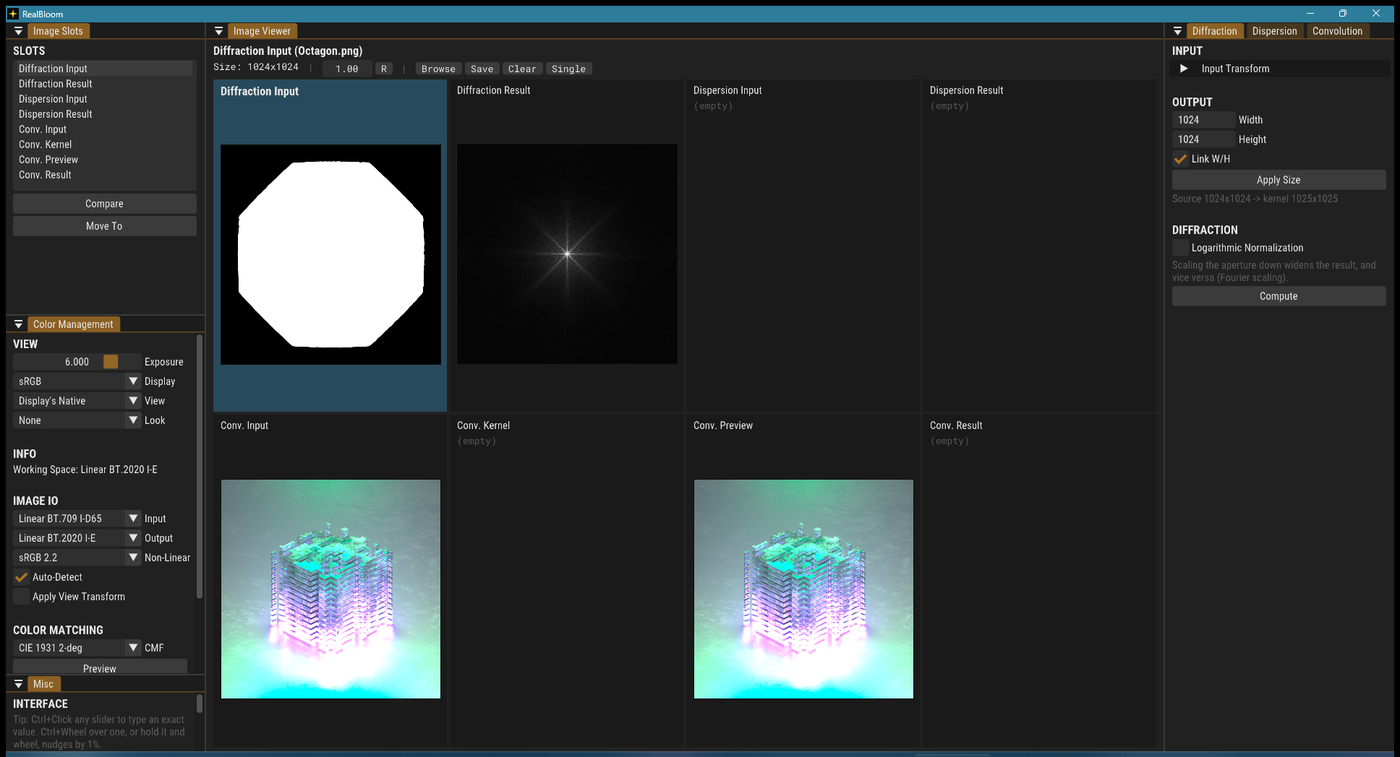
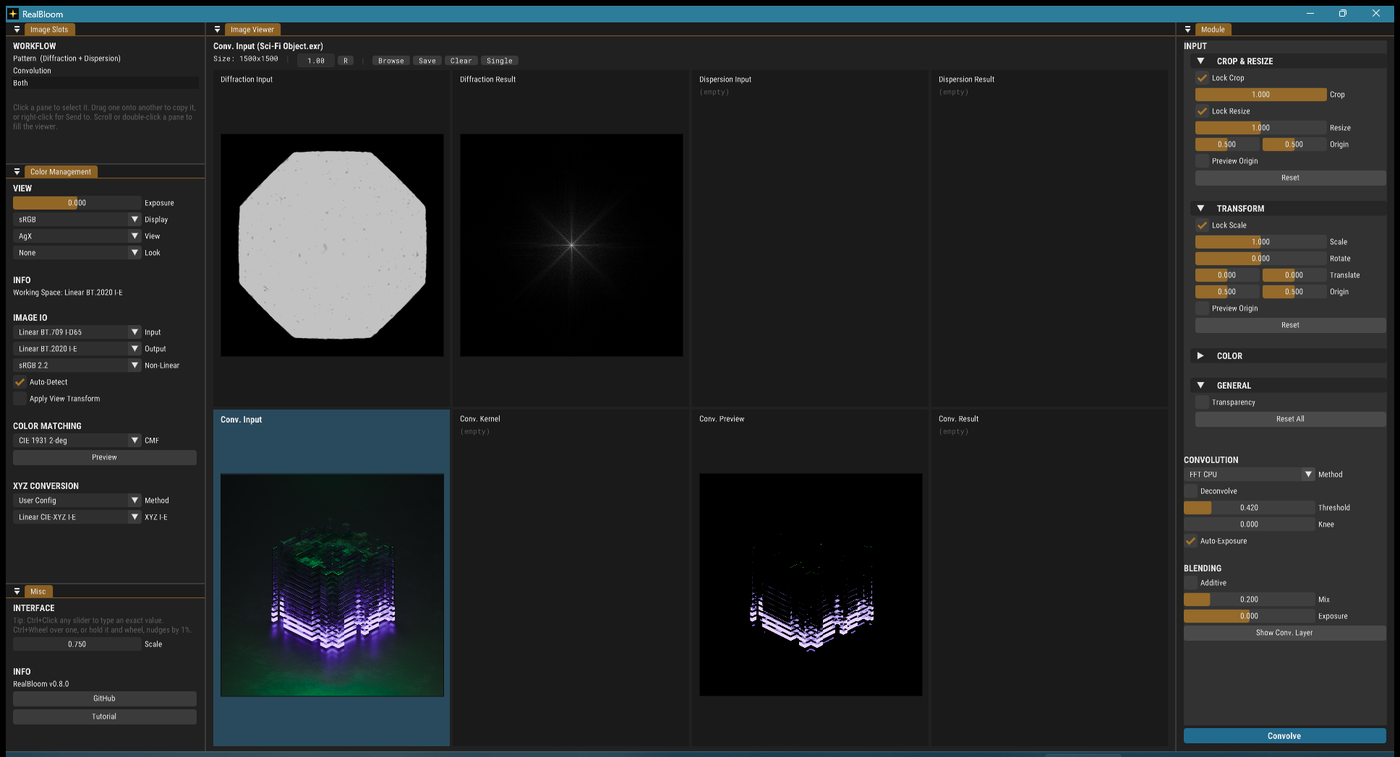
Blender-style gauge sliders, and refresh the README
Sliders fill from the left in proportion to their value instead of
showing a grab handle. The fill is drawn underneath and ImGui keeps
the behaviour, with its own frame and grab made transparent, so
dragging, Ctrl+Click to type, the wheel adjustment and Backspace all
keep working rather than being reimplemented on top of SliderBehavior.

Three details: the fill is dropped while a value is being typed, since
it would otherwise sit behind the text; hover highlighting is done
with a geometric test because ImGui's own hover colours are now
transparent; and narrow fills are clamped and clipped so a near-zero
value renders as a clean sliver.

The two-axis sliders use the same offsets ImGui uses to split a
multi-component widget, so they line up with the single ones.

README: rewritten to match what the interface actually is now, with
fresh screenshots. The old ones still showed three module tabs and the
slot list, both long gone.

diff --git a/RealBloom/src/Main.cpp b/RealBloom/src/Main.cpp
@@ -1971,7 +1971,7 @@ bool layoutImageTransformParams(const std::string& imageName, const std::string&
             }
             else
             {
-                if (ImGui::SliderFloat2("Crop##CropResize", &params.cropResize.crop[0], 0.01f, 1.0f))
+                if (imGuiSliderFloat2W("Crop##CropResize", &params.cropResize.crop[0], 0.01f, 1.0f))
                 {
                     params.cropResize.crop[0] = std::clamp(params.cropResize.crop[0], 0.01f, 1.0f);
                     params.cropResize.crop[1] = std::clamp(params.cropResize.crop[1], 0.01f, 1.0f);
@@ -2000,7 +2000,7 @@ bool layoutImageTransformParams(const std::string& imageName, const std::string&
             }
             else
             {
-                if (ImGui::SliderFloat2("Resize##CropResize", &params.cropResize.resize[0], 0.01f, 2.0f))
+                if (imGuiSliderFloat2W("Resize##CropResize", &params.cropResize.resize[0], 0.01f, 2.0f))
                 {
                     params.cropResize.resize[0] = std::max(params.cropResize.resize[0], 0.01f);
                     params.cropResize.resize[1] = std::max(params.cropResize.resize[1], 0.01f);
@@ -2009,7 +2009,7 @@ bool layoutImageTransformParams(const std::string& imageName, const std::string&
             }
 
             // Origin
-            if (ImGui::SliderFloat2("Origin##CropResize", params.cropResize.origin.data(), 0.0f, 1.0f))
+            if (imGuiSliderFloat2W("Origin##CropResize", params.cropResize.origin.data(), 0.0f, 1.0f))
             {
                 params.cropResize.origin[0] = std::clamp(params.cropResize.origin[0], 0.0f, 1.0f);
                 params.cropResize.origin[1] = std::clamp(params.cropResize.origin[1], 0.0f, 1.0f);
@@ -2055,7 +2055,7 @@ bool layoutImageTransformParams(const std::string& imageName, const std::string&
             }
             else
             {
-                if (ImGui::SliderFloat2("Scale##Transform", &params.transform.scale[0], 0.01f, 2.0f))
+                if (imGuiSliderFloat2W("Scale##Transform", &params.transform.scale[0], 0.01f, 2.0f))
                 {
                     changed = true;
                 }
@@ -2066,11 +2066,11 @@ bool layoutImageTransformParams(const std::string& imageName, const std::string&
                 changed = true;
 
             // Translate
-            if (ImGui::SliderFloat2("Translate##Transform", params.transform.translate.data(), -1.0f, 1.0f))
+            if (imGuiSliderFloat2W("Translate##Transform", params.transform.translate.data(), -1.0f, 1.0f))
                 changed = true;
 
             // Origin
-            if (ImGui::SliderFloat2("Origin##Transform", params.transform.origin.data(), 0.0f, 1.0f))
+            if (imGuiSliderFloat2W("Origin##Transform", params.transform.origin.data(), 0.0f, 1.0f))
             {
                 params.transform.origin[0] = std::clamp(params.transform.origin[0], 0.0f, 1.0f);
                 params.transform.origin[1] = std::clamp(params.transform.origin[1], 0.0f, 1.0f);
@@ -2275,9 +2275,101 @@ static bool imGuiDefaultReset(float* v, float vDefault)
 }
 
 // ImGui::SliderFloat + mouse wheel and default-reset support
+// Blender-style gauge: the track fills from the left in proportion to the value,
+// rather than showing a grab handle.
+//
+// The fill is drawn underneath and ImGui is left to do the behaviour, with its
+// own frame and grab made transparent. That keeps drag, Ctrl+Click to type, and
+// everything else intact instead of reimplementing SliderBehavior.
+static void imGuiGaugeBegin(float fraction, const char* label)
+{
+    ImDrawList* drawList = ImGui::GetWindowDrawList();
+    const ImVec2 p0 = ImGui::GetCursorScreenPos();
+    const float w = ImGui::CalcItemWidth();
+    const float h = ImGui::GetFrameHeight();
+    const float rounding = ImGui::GetStyle().FrameRounding;
+    const ImVec2 p1(p0.x + w, p0.y + h);
+
+    // While typing a value the fill would sit behind the text, so drop it
+    const bool typing = ImGui::TempInputIsActive(ImGui::GetID(label));
+    const bool hovered = ImGui::IsMouseHoveringRect(p0, p1);
+
+    drawList->AddRectFilled(p0, p1,
+        ImGui::GetColorU32(hovered ? ImGuiCol_FrameBgHovered : ImGuiCol_FrameBg), rounding);
+
+    if (!typing && (fraction > 0.0f))
+    {
+        const float fillW = ImMax(w * ImClamp(fraction, 0.0f, 1.0f), rounding * 2.0f);
+        drawList->PushClipRect(p0, p1, true);
+        drawList->AddRectFilled(p0, ImVec2(p0.x + fillW, p1.y),
+            ImGui::GetColorU32(ImGuiCol_SliderGrab), rounding);
+        drawList->PopClipRect();
+    }
+
+    ImGui::PushStyleColor(ImGuiCol_FrameBg, ImVec4(0, 0, 0, 0));
+    ImGui::PushStyleColor(ImGuiCol_FrameBgHovered, ImVec4(0, 0, 0, 0));
+    ImGui::PushStyleColor(ImGuiCol_FrameBgActive, ImVec4(0, 0, 0, 0));
+    ImGui::PushStyleColor(ImGuiCol_SliderGrab, ImVec4(0, 0, 0, 0));
+    ImGui::PushStyleColor(ImGuiCol_SliderGrabActive, ImVec4(0, 0, 0, 0));
+}
+
+static void imGuiGaugeEnd()
+{
+    ImGui::PopStyleColor(5);
+}
+
+// Two-axis variant. ImGui splits the item width into equal components, so the
+// fills are drawn at the same offsets to keep them visually identical.
+bool imGuiSliderFloat2W(const char* label, float* v, float vMin, float vMax)
+{
+    ImDrawList* drawList = ImGui::GetWindowDrawList();
+    const ImGuiStyle& style = ImGui::GetStyle();
+    const ImVec2 p0 = ImGui::GetCursorScreenPos();
+    const float spacing = style.ItemInnerSpacing.x;
+    const float wEach = (ImGui::CalcItemWidth() - spacing) / 2.0f;
+    const float h = ImGui::GetFrameHeight();
+    const float rounding = style.FrameRounding;
+
+    for (int i = 0; i < 2; i++)
+    {
+        const ImVec2 a(p0.x + (float)i * (wEach + spacing), p0.y);
+        const ImVec2 b(a.x + wEach, a.y + h);
+        const bool hovered = ImGui::IsMouseHoveringRect(a, b);
+
+        drawList->AddRectFilled(a, b,
+            ImGui::GetColorU32(hovered ? ImGuiCol_FrameBgHovered : ImGuiCol_FrameBg), rounding);
+
+        const float frac = (vMax > vMin)
+            ? ImClamp((v[i] - vMin) / (vMax - vMin), 0.0f, 1.0f) : 0.0f;
+        if (frac > 0.0f)
+        {
+            const float fillW = ImMax(wEach * frac, rounding * 2.0f);
+            drawList->PushClipRect(a, b, true);
+            drawList->AddRectFilled(a, ImVec2(a.x + fillW, b.y),
+                ImGui::GetColorU32(ImGuiCol_SliderGrab), rounding);
+            drawList->PopClipRect();
+        }
+    }
+
+    ImGui::PushStyleColor(ImGuiCol_FrameBg, ImVec4(0, 0, 0, 0));
+    ImGui::PushStyleColor(ImGuiCol_FrameBgHovered, ImVec4(0, 0, 0, 0));
+    ImGui::PushStyleColor(ImGuiCol_FrameBgActive, ImVec4(0, 0, 0, 0));
+    ImGui::PushStyleColor(ImGuiCol_SliderGrab, ImVec4(0, 0, 0, 0));
+    ImGui::PushStyleColor(ImGuiCol_SliderGrabActive, ImVec4(0, 0, 0, 0));
+    const bool changed = ImGui::SliderFloat2(label, v, vMin, vMax);
+    ImGui::PopStyleColor(5);
+
+    return changed;
+}
+
 bool imGuiSliderFloatW(const char* label, float* v, float vMin, float vMax, float vDefault)
 {
+    const float frac = (vMax > vMin) ? ((*v - vMin) / (vMax - vMin)) : 0.0f;
+
+    imGuiGaugeBegin(frac, label);
     bool changed = ImGui::SliderFloat(label, v, vMin, vMax);
+    imGuiGaugeEnd();
+
     if (imGuiWheelAdjust(v, vMin, vMax))
         changed = true;
     if (imGuiDefaultReset(v, vDefault))
@@ -2288,7 +2380,13 @@ bool imGuiSliderFloatW(const char* label, float* v, float vMin, float vMax, floa
 bool imGuiSliderUInt(const std::string& label, uint32_t* v, uint32_t min, uint32_t max, uint32_t vDefault)
 {
     int vInt = u32ToI32(*v);
+
+    const float frac = (max > min)
+        ? ((float)(*v - min) / (float)(max - min)) : 0.0f;
+
+    imGuiGaugeBegin(frac, label.c_str());
     bool changed = ImGui::SliderInt(label.c_str(), &vInt, u32ToI32(min), u32ToI32(max));
+    imGuiGaugeEnd();
 
     // Mouse wheel: 1% of the range per notch, but never less than 1
     if (wheelEditAllowed())

diff --git a/RealBloom/src/Main.h b/RealBloom/src/Main.h
@@ -95,6 +95,7 @@ void imGuiBold(const std::string& s);
 void imGuiText(const std::string& s, bool isError, bool newLine);
 bool imGuiWheelAdjust(float* v, float vMin, float vMax);
 bool imGuiSliderFloatW(const char* label, float* v, float vMin, float vMax, float vDefault = FLT_MAX);
+bool imGuiSliderFloat2W(const char* label, float* v, float vMin, float vMax);
 bool imGuiSliderUInt(const std::string& label, uint32_t* v, uint32_t min, uint32_t max, uint32_t vDefault = UINT32_MAX);
 bool imGuiInputUInt(const std::string& label, uint32_t* v);
 bool imGuiCombo(const std::string& label, const std::vector<std::string>& items, int* selectedIndex, bool fullWidth);

diff --git a/README.md b/README.md
@@ -42,14 +42,14 @@
 <!-- FORK CHANGES -->
 # Fork Changes
 
-This is a fork of [bean-mhm/realbloom](https://github.com/bean-mhm/realbloom) with two
-independent sets of changes: making v0.8.0 build against current dependencies, and a
-rework of the image viewer. Everything else is upstream's work.
+This is a fork of [bean-mhm/realbloom](https://github.com/bean-mhm/realbloom) with
+two independent sets of changes: making v0.8.0 build against current dependencies,
+and a rework of the interface. Everything else is upstream's work.
 
 ## Building against current OpenColorIO / OpenImageIO
 
-v0.8.0 targets OCIO 2.1 and OIIO 2.4. Current vcpkg ships OCIO 2.5 and OIIO 3.1, which
-breaks the build in three places:
+v0.8.0 targets OCIO 2.1 and OIIO 2.4. Current vcpkg ships OCIO 2.5 and OIIO 3.1,
+which breaks the build in three places:
 
 | Problem | Fix |
 |--|--|
@@ -57,69 +57,110 @@ breaks the build in three places:
 | OCIO 2.5 added a `TextureDimensions` out-param to `GpuShaderDesc::getTexture()` | Pass it through; the existing height-based `GL_TEXTURE_1D`/`2D` choice still holds, so behaviour is unchanged |
 | OIIO 3.x moved `TypeDesc::TypeString` to namespace-level `OIIO::TypeString`, and its bundled fmt requires `/utf-8` | Updated the call site and added the compiler flag |
 
-These are compatibility shims, not behaviour changes. Verified by rendering a hexagon
-aperture diffraction pattern through the CLI and comparing against the official v0.8.0
-release binary: **0 of 1,050,625 pixels differ**.
+These are compatibility shims, not behaviour changes. Verified by rendering a
+hexagon aperture diffraction pattern through the CLI and comparing against the
+official v0.8.0 release binary: **0 of 1,050,625 pixels differ**.
 
-They are isolated in a single commit on the [`ocio-oiio-compat`](../../tree/ocio-oiio-compat)
-branch, which applies cleanly to upstream `main` on its own.
+They are isolated in a single commit on the
+[`ocio-oiio-compat`](../../tree/ocio-oiio-compat) branch, which applies cleanly to
+upstream `main` on its own.
 
-## Image viewer
+## Interface
 
-![Split image viewer](images/fork/split-viewer.png)
+![The image viewer showing every slot at once](images/fork/split-viewer.png)
 
-The viewer showed one image slot at a time, which turned out to be the root of several
-separate annoyances: *Compare* existed only to flip around it, drag-and-drop had to
-target "the selected slot", and the module tabs drifted out of sync with the slot being
-worked on. Above, an aperture and its diffraction pattern are visible side by side, with
-no slot switching.
+The interface was organised around the program's three modules rather than around
+what you do with them. You chose a tab whose answer was already implied by the
+image you had selected, and scrolled past a transform belonging to a different
+slot to reach the button you wanted.
 
-- **Split view** of all 8 slots in an adaptive grid. Double-click a pane to maximise it,
-  double-click again to go back.
-- **Drag one pane onto another** to copy its image, Shift to move. This is how modules
-  chain (Diffraction Result into Conv. Kernel), previously only possible via a dialog.
-- **Right-click a pane** for Browse / Save / Clear.
-- **Cursor-anchored zoom** in single view, with drag to pan. Files dropped from the OS
-  land in the pane under the cursor.
+### The viewer shows every slot
 
-Note that each slot now owns its framebuffer. `CmImage` defaults to a single shared
-static framebuffer, which is fine when only one image is ever on screen but makes every
-pane of a grid display whatever rendered last. The cost is one framebuffer per populated
-slot, roughly 16 MB at 1024x1024.
+Upstream shows one image slot at a time, which turned out to be the root of
+several separate annoyances: *Compare* existed only to flip around it,
+drag-and-drop had to target "the selected slot", and the module tabs drifted out
+of sync with the image being worked on.
 
-## Interaction
+- **All slots at once** in an adaptive grid. Above, an aperture, its diffraction
+  pattern, a render and its thresholded highlights are all visible together.
+- **Scroll or double-click a pane** to fill the viewer with it; double-click again
+  to go back.
+- **Drag one pane onto another** to copy its image, Shift to move.
+- **Right-click a pane** for Browse / Save / Clear, and a **Send to** submenu that
+  works even when the destination is not on screen.
+- **Cursor-anchored wheel zoom** with drag to pan, in the maximised view.
+- Files dropped from the OS land in the pane under the cursor.
 
-- **Mouse wheel over a slider** adjusts it by 1% of its range. Requires holding the
-  slider or holding Ctrl, so scrolling a panel never silently edits a value it passes over.
-- **Selecting a slot brings its module tab forward**, so the panel always matches the
-  image being worked on.
-- **Live dispersion preview**, with a cost guard that backs off once steps x pixels gets
-  expensive. Diffraction is deliberately left manual: its `compute()` is synchronous on
-  the UI thread, so a live version would freeze the window.
-- Tooltips for *Compare* and *Move To*, and a note that aperture size and pattern size
-  are reciprocal, which is the most common source of confusion for new users.
+Each slot owns its framebuffer. `CmImage` defaults to a single shared static
+framebuffer, which is fine when only one image is ever on screen but makes every
+pane of a grid display whatever rendered last.
 
-## Explicit kernel resolution
+### Two workflows
 
-<img src="images/fork/output-size.png" width="300" align="right">
+Diffraction and dispersion produce a kernel; convolution consumes one. They are
+rarely used at the same time, so a selector limits the viewer to one half or the
+other, with **Both** keeping the full grid for when a kernel is handed across.
 
-Output size was only reachable through a *Resize* multiplier on the input transform.
-Since a kernel's pixel dimensions are what set the glare's reach in a compositor, the
-Diffraction panel now takes an explicit width and height, with an optional aspect link,
-and reports the resulting kernel size including the FFT's odd-size padding.
+### The panel follows the selection
 
-The underlying multiplier is re-derived whenever the source image changes, so an
-explicit target survives loading a different aperture.
+<img src="images/fork/module-panel.png" width="300" align="right">
 
-Sliders elsewhere accept exact values too: **Ctrl+Click any slider to type into it**.
-That is stock Dear ImGui behaviour that was simply never documented.
+- **One panel instead of three tabs.** Its contents follow the selected slot, so
+  Conv. Kernel shows the kernel transform and Conv. Input the input transform.
+- **Sections collapse individually**, and stay collapsed across restarts.
+- **The primary action is pinned to the bottom** and tinted, rather than sitting
+  wherever the scroll happened to land.
+- **Gauge sliders**, filled in proportion to the value like Blender's. The fill is
+  drawn underneath and ImGui keeps the behaviour, so dragging and Ctrl+Click to
+  type still work.
+- **Explicit kernel resolution.** Output size was previously only reachable
+  through a *Resize* multiplier. Since a kernel's pixel dimensions are what set
+  the glare's reach in a compositor, the Diffraction panel now takes a width and
+  height directly, with an optional aspect link, and reports the resulting kernel
+  size including the FFT's odd-size padding.
 
 <br clear="right">
 
+### Live previews
+
+Dispersion re-runs automatically as its parameters settle. On the GPU method there
+is no ceiling, since 1024 steps on a 1024x1024 input lands in about 0.2s; the CPU
+path keeps a cost guard.
+
+Diffraction is also live, but capped at one megapixel. Its `compute()` is
+synchronous on the UI thread, measured at roughly 0.08s at 256x256, 0.22s at
+512x512 and 0.5s at 1024x1024, so past that the pause stops being acceptable and
+the Compute button takes over.
+
+### Everything is remembered
+
+Module parameters, methods, thread counts, thresholds, blending, image transforms,
+the colour management view and the image IO spaces all round-trip through
+`config.xml`, alongside the collapsed sections and chosen workflow. Window
+geometry and docking were already persisted by ImGui to `imgui.ini`. Images are
+deliberately not remembered.
+
+### Smaller things
+
+- **Ctrl+Click any slider to type an exact value.** Stock Dear ImGui behaviour
+  that was simply never documented.
+- **Mouse wheel over a slider** nudges it by 1% of its range. It requires holding
+  the slider or holding Ctrl, so scrolling a panel never silently edits a value
+  the cursor passes over.
+- **Backspace over a slider** restores its default, as in Blender.
+- **No console window** in GUI mode. The app is a console-subsystem binary so that
+  `RealBloom.exe cli` works; it now detaches once startup succeeds. Pass
+  `--console` to keep it, and Debug builds always do.
+- Selecting a slot never changes on its own. Computing, previewing and blending
+  used to jump the view to the result, which is pointless now that every slot is
+  visible.
+- A note in the Diffraction panel that aperture size and pattern size are
+  reciprocal, which is the most common source of confusion for new users.
+
 ## Example output
 
-A dispersed diffraction kernel generated from `demo/Apertures/Octagon.png`, ready to drop
-into a compositor as a glare or convolution kernel:
+A dispersed diffraction kernel generated from `demo/Apertures/Octagon.png`, ready
+to drop into a compositor as a glare or convolution kernel:
 
 ![Example kernel](images/fork/kernel-example.png)
 
@@ -131,9 +172,10 @@ RealBloom.exe cli
 > disp -i d.exr -a "Linear BT.709 I-D65" -o kernel.exr -p "Linear BT.709 I-D65" -d 0.4 -e 0 -s 512
 ```
 
-When exporting kernels for a compositor, set **Output** in Color Management > IMAGE IO to
-match the target's scene-linear space and leave **Apply View Transform** off, otherwise a
-display transform gets baked into what should be linear data.
+When exporting kernels for a compositor, set **Output** in Color Management >
+IMAGE IO to match the target's scene-linear space and leave **Apply View
+Transform** off, otherwise a display transform gets baked into what should be
+linear data.
 
 <p align="right">(<a href="#readme-top">back to top</a>)</p>
 
